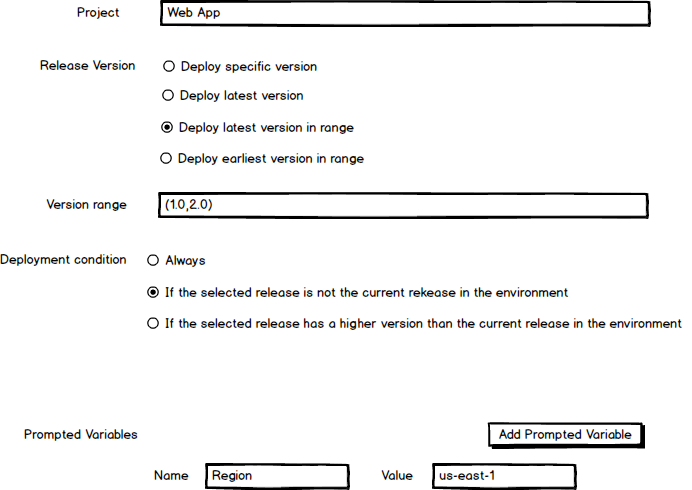
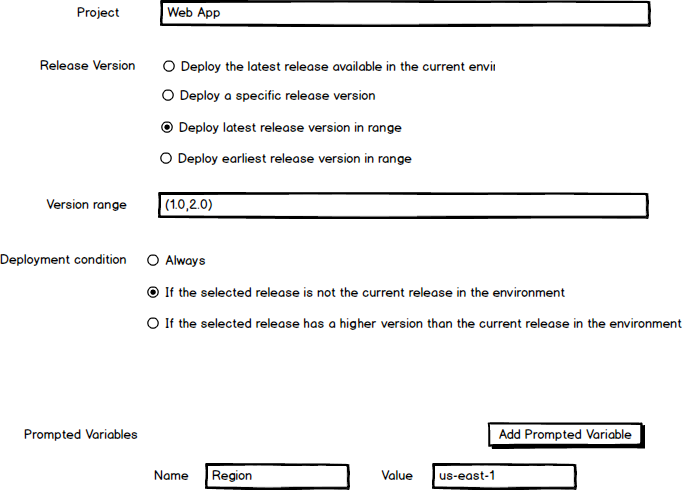
still working on doc

diff --git a/blog/2021-07/octo-as-target/index.md b/blog/2021-07/octo-as-target/index.md
@@ -55,7 +55,7 @@ The first milestone focuses on the creating and deploying releases, running runb
 
 *I want to automate the process of clicking the **CREATE RELEASE** button.*
 
-Automating the creation of releases allow multiple applications releases to be created with a common set of channels, package versions, and release notes. The **Automate Create Release** step exposes the fields that are defined when clicking the **CREATE RELEASE** button, while also exposing some flexible logic when it comes to selecting package versions:
+Automating the creation of releases allow multiple project releases to be created with a common set of channels, package versions, and release notes. The **Automate Create Release** step exposes the fields that are defined when clicking the **CREATE RELEASE** button, while also exposing some flexible logic when it comes to selecting package versions:
 
 ![](create-release.png)
 
@@ -65,9 +65,13 @@ Automating the creation of releases allow multiple applications releases to be c
 
 The deployment dashboard provides a grid of environments project releases, with a handy **DEPLOY** button in the intersection. This makes promoting the release of one project through environments easy. However, it does involve a lot of clicking around when promoting multiple projects to a new environment.
 
+The **Automate Deploy Release** step automates the process usually initiated by clicking the **DEPLOY** button. Unlike the **Deploy a release** step, which treats a project's releases as a feed with versions to be selected at release creation time, the **Automate Deploy Release** step models the actions of an end user, which is usually to deploy the latest release available for a given environment at the current point in time:
+
 ![](deploy-release.png)
 
 ## Running runbooks
+
+*I want to automate the process of clicking the **RUN** button.*
 
 Runbooks provide a great way to encapsulate common functionality. The new **Run a Runbook** step allows a runbook to be executed from a deployment process or runbook:
 
@@ -75,8 +79,34 @@ Runbooks provide a great way to encapsulate common functionality. The new **Run 
 
 ## Interacting with manual intervention prompts
 
+*I want to automate the process of clicking the manual intervention **PROCEED** or **CANCEL** buttons.*
+
 Manual intervention steps provide the opportunity to verify a deployment through manual testing or prompt to allow a deployment to proceed. When used at scale though it can be hard to know which manual intervention prompts require action, and in which order.
 
 The new **Action a Manual Intervention** step provides the ability to interact with a pending manual intervention in another project. By creating a runbook with many **Action a Manual Intervention** steps, multiple deployments can be allowed to proceed or halted without manually clicking through each project:
 
 ![](manual-intervention.png)
+
+## Benefits of the new steps
+
+Octopus does a fantastic job of modeling complex infrastructure, deploying applications to thousands of machines partitioned in multiple environments, and running runbooks when and where there are needed. You can orchestrate almost any kind of deployment process or management task with Octopus, so long as you are happy to have someone click the right buttons in the right order at the right time.
+
+From the very beginning, runbooks have been designed to free DevOps teams from disconnected and untested documentation describing a sequence of tasks. Unfortunately, any large scale deployment process in Octopus requiring a specific and coordinated sequence of release creations, deployments, and interventions requires advanced API scripting, or some kind of external runbook document and a lot of manual clicking.
+
+The four steps described above are the first of many to allow Octopus itself to be automated from a runbook like any other system. Specifically, we forsee the following benefits customers deploying at scale:
+
+### The same proven processes, now automated at scale
+
+These steps deliberately don't introduce any new paradigms or concepts for you to learn and incorporate into your processes. They simply describe the same buttons you have been clicking and forms fields your have been populating all along, allowing you to automate your existing proven and familiar processes.
+
+### Automation without scripts
+
+Writing custom scripts to automate Octopus is a highly specialized task. It requires a decent level of proficiency writing code and a deep understanding of the internals of Octopus. 
+
+Octopus has always prided itself on making complex deployments easy, and these new steps take that same principal and applies it to Octopus itself. These steps allow us to fulfil the vision of orchestarting deployments without custom scripts.
+
+### Simple security model
+
+By exposing an Octopus instance as a target, all existing security boundaries are respected and preserved, and all actions will be performed via regular API calls with API keys you create. These steps won't use any privileged access paths within Octopus, so you retain complete control.
+
+## We want your feedback
